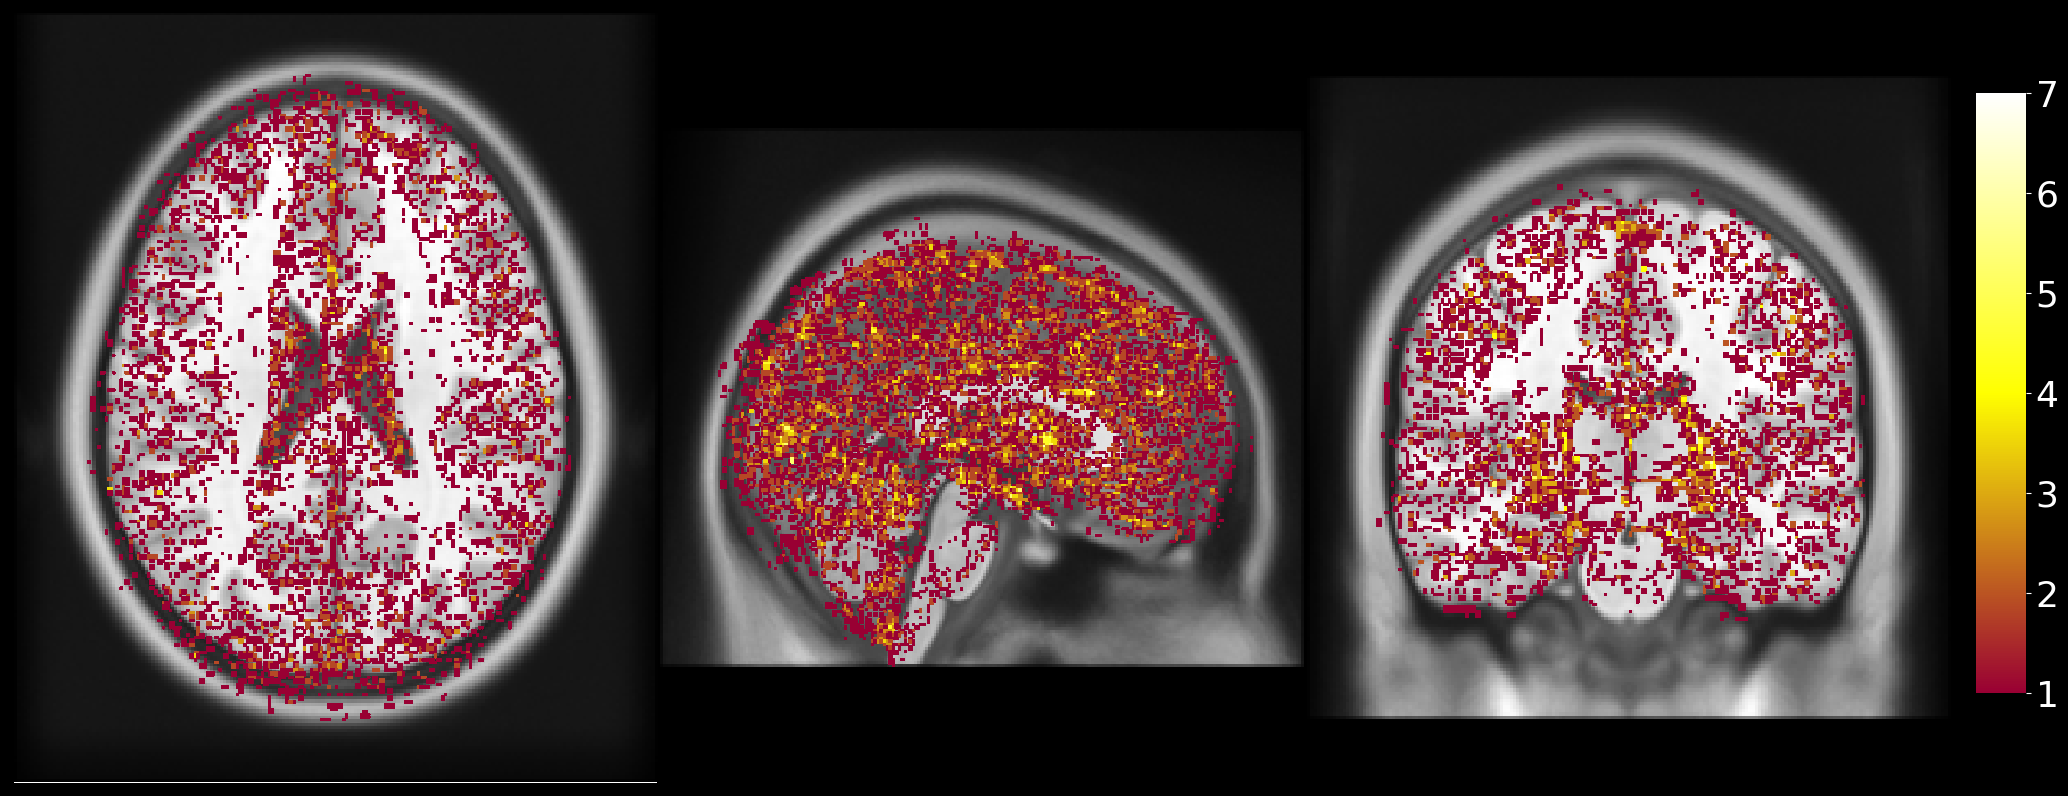
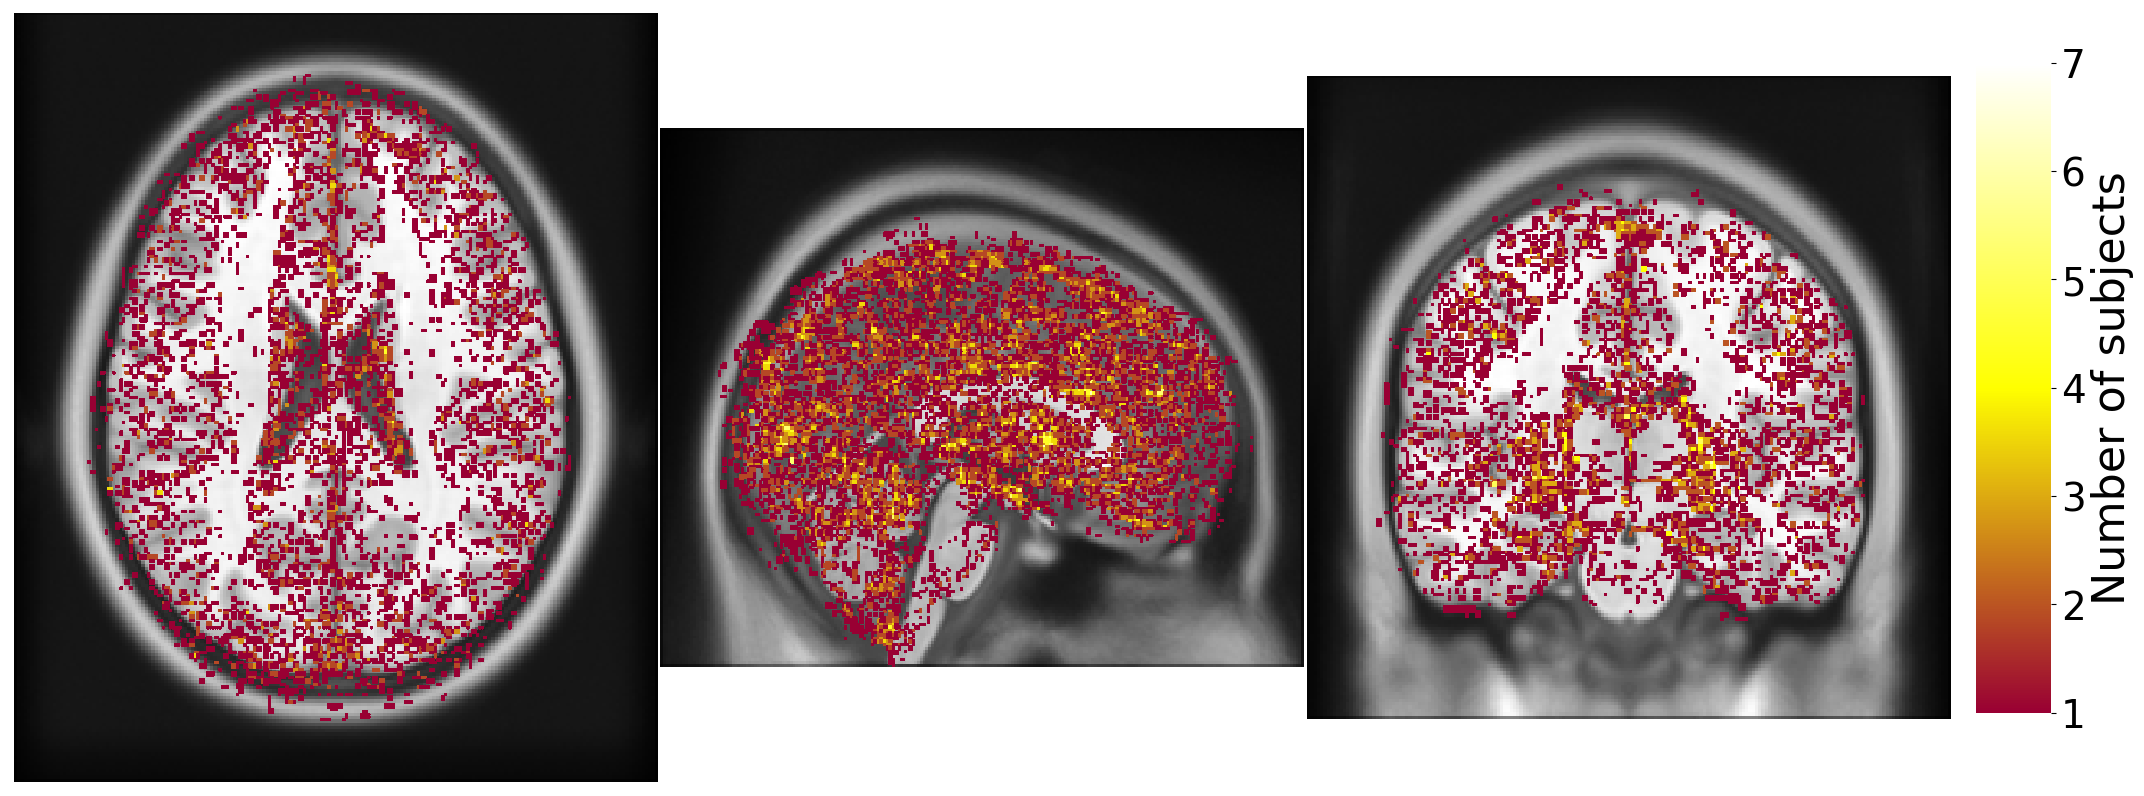
Revised the comments of reviewers

diff --git a/paper.tex b/paper.tex
@@ -50,12 +50,14 @@ linkbordercolor=blue,% hyperlink border will be blue
 %%%% Commands %%%%
 % \newcommand{\todo}[1]{\color{red}\textbf{TODO:}#1\color{black}}
 % \newcommand{\note}[2]{\color{blue}Note from \textsc{#1}: #2\color{black}}
+\newcommand{\revision}[1]{\color{purple}\textbf{REVISION:}#1\color{black}}
+\newcommand{\revised}[1]{\color{blue}\textbf{REVISED:}#1\color{black}}
 \newcommand{\reprozip}[0]{ReproZip\xspace}
 \newcommand{\tristan}[1]{\color{orange}\textbf{From Tristan:}#1\color{black}}
 \newcommand{\toolname}[0]{Spot\xspace}
 \newcommand{\flirt}[0]{\texttt{flirt}\xspace}
 \newcommand{\fnirt}[0]{\texttt{fnirt}\xspace}
- 
+
 \title{File-based localization of numerical perturbations in data analysis pipelines}
 \begin{document}
 
@@ -72,8 +74,8 @@ linkbordercolor=blue,% hyperlink border will be blue
 \maketitle
 
 \begin{abstract} 
-Data analysis pipelines are known to be impacted by computational conditions, presumably due to the creation,
-propagation, and amplification of numerical errors. While this process could
+Data analysis pipelines are known to be impacted by computational conditions, presumably due to the creation 
+and propagation of numerical errors. While this process could
 play a major role in the current reproducibility crisis, the precise
 causes of such instabilities and the path along which they propagate in
 pipelines are unclear. We present \toolname, a tool to identify which
@@ -226,6 +228,19 @@ a step-by-step execution that prevents the propagation of differences in the pip
  The resulting labeled graph identifies the
 non-reproducible processes in the pipeline. 
 
+\revised{
+The labeled graph can be different depending on the condition that we obtained \reprozip trace as it can produce 
+different DAGs. Even using the same DAGs, it depends on the order of executions in which condition 
+we execute pipeline to pinpoint the propagation of differences. 
+Therefore, any permutation of these two factors can produce different results.
+% Pinpointing differences in one condition can be different than other condition.
+
+% add a paragraph to the methods, to explain that the order matters, due to:
+% 1. possible differences in the reprozip trace
+% 2. the way the comparison is done
+}
+
+
 \begin{figure*}
   \begin{subfigure}[t]{0.3\linewidth}
     \centering
@@ -255,7 +270,7 @@ non-reproducible processes in the pipeline.
     \texttt{bet} were captured by \reprozip while they did not appear in
     Listing~\ref{listing:sample-script}. Processed associated with
     executables located in \texttt{/usr/bin/} or \texttt{/bin/} are not shown.
-  }
+    \revised{Node labels are enlarged.}}
     \label{fig:spot-example}
   \end{figure*}
 
@@ -277,7 +292,8 @@ process instrumentation.
 
 \begin{listing}
   \inputminted{bash}{"data/example/example.sh"}
-  \caption{Example pipeline}
+  \caption{\revised{Example pipeline: computes the volume and number 
+  of voxels of the brain from a T1 image.}}
   \label{listing:sample-script}
 \end{listing}
 
@@ -353,6 +369,24 @@ files produced by \texttt{bet2} in Condition 2 are replaced with the
 files produced by \texttt{bet2} in Condition 1. Processes
 \texttt{fslmaths} and \texttt{fslstats} are then executed and
 labeled as reproducible (green) as they produce files without differences.
+
+\subsection{Implementation}
+\revised{ 
+The tool is implemented in Python programming language and supports the Python version 3.5 and higher.
+It utilizes the Python modules including NumPy~\cite{oliphant2006guide} and Pandas~\cite{mckinney2011pandas}, 
+which allow data processing, 
+SciPy~\cite{2020SciPy-NMeth} and Scikit-learn~\cite{pedregosa2011scikit} packages 
+for clustering the subjects, and Zss~\cite{zhang1989simple} package to calculate the tree distances.
+Also, the Python APIs of Docker and Boutiques~\cite{glatard2018boutiques} tools were used to create the container 
+images and simplify the pipeline executions.
+
+We used the latest version of Boutiques tool v0.5.25 for creating descriptors 
+to execute pipelines across the operating systems automatically.
+In a JSON schema, the descriptors define inputs, outputs, error codes, containers, and the command line for running pipelines.
+
+Besides, we used \reprozip tool version 1.0.16 to collect the pipeline system call processes and 
+files in an SQLite file format.
+}
 
 \section{Experiments}
 
@@ -440,18 +474,34 @@ Container images contain the HCP software dependencies, including FSL
 Connectome Workbench (version 1.0).
 
 We processed the 20 subjects with PreFreeSurfer and FreeSurfer, using the 2
-CentOS versions. Each subject was processed twice on the same operating
+CentOS versions. 
+\revised{Using the \reprozip trace obtained from CentOS7, 
+we captured transient files in CentOS6 and labeled pipeline processes in CentOS7.}
+Each subject was processed twice on the same operating
 system to detect within-OS variability coming from pseudo-random
 operations. We compared pipeline results using  FreeSurfer tools \texttt{mri\_diff},
 \texttt{mris\_diff}, and \texttt{lta\_diff}, to ignore execution-specific information such as file path or
 timestamps. To compare segmentations $X$ and $Y$, we used the Dice coefficient defined as follows:
 \[DICE=\frac{2|X \cap Y|}{|X| + |Y|}\]
 
+\revised{
+The Dice coefficient~\cite{dice1945measures} is a commonly used metric in validating medical image segmentation.
+The Dice value ranges from 0 to 1, with 1 indicating a complete overlap between two segmentation results.
+Besides, the Jaccard coefficient~\cite{jaccard1912distribution} can be considered an equivalent metric 
+to measure the overlap between images.
+
+% Also, we used the Pearson correlation coefficient to establish the relationship between Dice value and segmented region size.
+% Like other correlation coefficients, this one varies between -1 and +1 with 0 implying no correlation. 
+% Correlations of -1 or +1 imply an exact linear relationship. 
+}
+
 % Finally, to cluster the subjects, the threshold value is set to zero in the clustering method. 
 % Also, we used the nearest neighbor algorithm to calculate the distance between clusters.
 
 \section{Results}
-
+\revised{
+All experiments were run on the machine with a 3.4GHz Intel Core i7 processor 
+and 32GB memory under the CentOS7 operating system.
 The average processing time per subject was approximately 2~hours for
 PreFreeSurfer and 8~hours for FreeSurfer. The average output file size was
 2.7~GB for PreFreeSurfer and 4.1~GB for FreeSurfer.
@@ -459,7 +509,9 @@ PreFreeSurfer and 8~hours for FreeSurfer. The average output file size was
 For each subject, PreFreeSurfer accessed
 83K files and created 7.7K processes, and FreeSurfer accessed 62K files and 
 created 4K processes.
-
+The scripts and analyses used to create the figures in this section are available at 
+\url{https://github.com/big-data-lab-team/HCP-reproducibility-paper}.
+}
 % \subsection{Subject clustering}
 
 % To reduce the number of provenance graphs to be examined, we cluster
@@ -552,28 +604,40 @@ the observed differences in the entire pipeline, for a given subject.
   the \flirt tool was invoked 6 times in step DC for each of the 20
   subjects: 2 instances weren't reproducible in 19 subjects, 3
   instances were always reproducible, and 1 instance wasn't reproducible in
-  17 subjects. }
+  17 subjects. 
+  \revised{Grey cells show that any command line of the process did not occur in the pipeline step.}}
   \label{fig:pfs_heatmap}
 \end{figure*}
 
 \begin{figure*} 
    \centering
     \includegraphics[width=\linewidth]{figures/pfs-labeled.pdf} 
-    \caption{A complete provenance graph from the PreFreesurfer pipeline. For better visualization, processes associated with commands 
-    in \texttt{/bin} or \texttt{/usr/bin} were ommitted, as well as 
+    \caption{A complete provenance graph from the PreFreesurfer pipeline. 
+    \revised{Node labels show the same abbreviations as in Figure~\ref{fig:pfs_heatmap}.}
+    For better visualization, processes associated with commands 
+    in \texttt{/bin} or \texttt{/usr/bin} were omitted, as well as 
   \texttt{imtest}, \texttt{imcp}, \texttt{remove\_ext}, \texttt{fslval}, \texttt{avscale}, and \texttt{fslhd}.}
     \label{fig:complete_pfs}
 \end{figure*}
 
-To illustrate the magnitude of the differences,
+\revised{
 Figure~\ref{fig:fnirt_result} compares \fnirt results in Brain Extraction
-for a particular subject. Differences appear to be important, in
-particular in the areas framed in red.
+for a particular subject using the checkerboard pattern.
+Differences appear to be visually important, in particular in the areas framed in red.
+The checkerboard representation is a common method to illustrate the magnitude of the differences in registration results.
+Although differences are more clearly represented in the animations linked in this figure.}
+
 \begin{figure}
   \centering
     \includegraphics[width=\columnwidth]{figures/t2w_alignment.png} 
     \caption{Differences between T2 \fnirt results in PreFreeSurfer's Brain Extraction (CentOS6 vs 
-    CentOS7). An animated version of the comparison is available \href{https://github.com/big-data-lab-team/HCP-reproducibility-paper/blob/master/figures/pfs_t2w_alignment.gif}{here}.}
+    CentOS7). 
+    \revised{
+    The colored squares indicate result images obtained from CentOS6 (in purple) and CentOS7 (in green), 
+    and the red boxes highlight regions with significant differences.}
+    % Result images obtained from CentOS6 and CentOS7 are colored in purple and green squares.
+    % The red boxes highlight regions with significant differences.}
+    An animated version of the comparison is available \href{https://github.com/big-data-lab-team/HCP-reproducibility-paper/blob/master/figures/pfs_t2w_alignment.gif}{here}.}
     \label{fig:fnirt_result}
 \end{figure}
 
@@ -586,12 +650,19 @@ that produced different results for
 10 out of 20 subjects. 
 
 However, FreeSurfer results still differ between conditions, due to the
-propagation and amplification of differences created in PreFreeSurfer. We
+propagation of differences created in PreFreeSurfer. We
 observed the effect of this propagation in FreeSurfer results, as shown in
 Figure~\ref{fig:tissue_class} for whole-brain segmentations. The
 Dice coefficients associated with the 44 regions segmented by
 FreeSurfer are shown in Figure~\ref{fig:scatter_plot}, showing that Dice coefficents below 0.9 are 
 observed in most regions, and particularly in the smallest ones.
+\revised{
+The correlation between the Dice values and region sizes computed as the Pearson's correlation coefficient 
+was 0.12 (\emph{P}=.43). 
+The positive correlation implies that as region size increases, Dice value increases. 
+% This is an average Dice values over 20 subjects for each 44 regions.
+}
+
 \begin{figure}
 %  \includegraphics{brain\_classification}
 \centering
@@ -599,10 +670,13 @@ observed in most regions, and particularly in the smallest ones.
   \caption{Sum of binarized differences between whole-brain FreeSurfer
   segmentations obtained from PreFreeSurfer processings in CentOS6 vs CentOS7
    (N=20). Segmentations were resampled and overlaid to the MNI152 volume
-  template. An animated comparison of segmentations obtained for a particular subject is available
+  template. 
+  \revised{Each voxel shows the number of subjects that created different results. 
+  The color bar ranges from 1 to 7 as the minimum and the maximum number of subjects in each voxel.
+  Voxels are not colored if the identical results were produced in all 20 subjects.}
+  An animated comparison of segmentations obtained for a particular subject is available
 \href{https://github.com/big-data-lab-team/HCP-reproducibility-paper/blob/master/figures/fs_brain_segmentation.gif}
-{here}.
-} 
+{here}.} 
   \label{fig:tissue_class}
 \end{figure}
 
@@ -610,7 +684,9 @@ observed in most regions, and particularly in the smallest ones.
   \hspace*{-1cm}
   \includegraphics[width=1.1\linewidth]{figures/dice_regions.pdf}
     \caption{Dice coefficients between regions segmented by FreeSurfer in CentOS6 vs CentOS7 (N=20), ordered by increasing 
-    median values. Boxes brightness is proportional to the logarithm of the corresponding brain region size.}
+    median values. 
+    \revised{Each point indicates the Dice value in a particular region for a single subject.}
+    Boxes brightness is proportional to the logarithm of the corresponding brain region size.}
     \label{fig:scatter_plot}
   \end{figure*}
 
@@ -623,6 +699,12 @@ observed in most regions, and particularly in the smallest ones.
   
 
 \section{Discussion}
+
+\revision{
+Discuss irreproducibility in 2 parts:
+1. code coverage 
+2. statistics, see eq 1 in https://ieeexplore.ieee.org/abstract/document/7152570
+}
 
 Our results provide insights on the reproducibility of
 neuroimaging pipelines, and on the relevance of the approach implemented

diff --git a/bin/code/provenance_graph.py b/bin/code/provenance_graph.py
@@ -52,9 +52,9 @@ def get_opened_files_list(openfile_cursor, pid):
 
 def add_edge(graph_, from_, to_, mode):
     if mode == 'file':
-        graph_.attr('edge', style='solid',color='black', penwidth='1')
+        graph_.attr('edge', style='solid',color='black', penwidth='3')
     elif mode == 'ptree':
-        graph_.attr('edge', style='dashed', color='grey', penwidth='1')
+        graph_.attr('edge', style='dashed', color='grey', penwidth='3')
     graph_.edge(str(from_), str(to_))
     return graph_
 
@@ -62,29 +62,32 @@ def add_edge(graph_, from_, to_, mode):
 def add_node(graph_, id, name, mode, color):
     # with graph_.subgraph(name='cluster_{}'.format(cluster)) as ngraph_:
     if mode == 'process':
+        if name == 'remove_ext':
+                name = 'remove\next'
         if color == 'red':
             if name == 'fslmaths':
                 name = 'fsl\nmaths'
             if name == 'new_invwarp':
                 name = 'new\ninvwarp'
-            graph_.node(str(id), name.upper(), width='1.5', fontsize='16',fontname="Helvetica bold",
+            graph_.node(str(id), name.upper(), width='2.3', fontsize='26',fontname="Helvetica bold",
                         fontcolor='black', shape='circle',
-                        style='filled', fillcolor='#EDB9B8', penwidth='1')
+                        style='filled', fillcolor='#EDB9B8', penwidth='.5')
         elif color == 'green':
-            graph_.node(str(id), name, width='1.5', penwidth='1', fontsize='16', shape='circle',
+            graph_.node(str(id), name.upper(), width='2.3', penwidth='.5', fontsize='26', shape='circle',
                         style='filled', fillcolor='#7FCDB1', fontname="Helvetica bold")
         elif color == 'subgreen':
-            graph_.node(str(id), name, width='1.5', fontsize='16',fontname="Helvetica bold",
+            graph_.node(str(id), name.upper(), width='2.3', fontsize='26',fontname="Helvetica bold",
                         shape='circle', style='filled', fillcolor='#7FCDB1')
         elif color == 'white':
-            graph_.node(str(id), name, width='1.5', shape='circle', style='filled', fontsize='16',
+            graph_.node(str(id), name.upper(), width='2.3', shape='circle', style='filled', fontsize='26',
                         fontname="Helvetica bold", fillcolor='white')
     elif mode == 'file':
         if name != '':
             graph_.node(str(id), name, shape='box', style='filled', fillcolor=color, penwidth='1',
-                        fontsize='16', fontname="Helvetica bold")
+                        fontsize='26', fontname="Helvetica bold")
         else:
-            graph_.node(str(id), name, shape='box', style='filled', fillcolor=color, penwidth='1')
+            graph_.node(str(id), name, shape='box', style='filled', fillcolor=color, penwidth='1',
+                        fontsize='26')
     # graph_.node(str(id), name) 
     return graph_
 

diff --git a/bin/code/binarized_heatmap_img.py b/bin/code/binarized_heatmap_img.py
@@ -43,7 +43,7 @@ def main():
 
     # Check that both images have the same dimensions
     # shape1 = im1.header.get_data_shape()
-    # shape2 = im_ref.header.get_data_shape() 
+    # shape2 = im_ref.header.get_data_shape()
     hor_view = img_sum[129,:,:]
     hor_view_ref = im_data_ref[98,:,:]
     ver_view = img_sum[:,155,:]
@@ -57,17 +57,19 @@ def main():
     endcolor = '#FFFFFF'
     own_cmap1 = mpl.colors.LinearSegmentedColormap.from_list(
                     'own2', [startcolor, midcolor, endcolor])
-    fig = plt.figure(figsize=(25,10), facecolor='black')
+    fig = plt.figure(figsize=(25,10), facecolor='white')
     ax1 = fig.add_subplot(131)
     ax2 = fig.add_subplot(132)
     ax3 = fig.add_subplot(133)
     plt.subplots_adjust(hspace=0.05, wspace=0.005)
-    cbar_ax = fig.add_axes([.91, .2, .02, .6])
-    cbar_ax.tick_params(labelsize=26, color='white', labelcolor='white')
+    cbar_ax = fig.add_axes([.91, .18, .03, .65])
+    cbar_ax.tick_params(labelsize=28, color='black', labelcolor='black')
+    cbar_ax.yaxis.label.set_size(32)
+    cbar_ax.yaxis.label.set_color('black')
 
     own_cmap1.set_under("0.5", alpha=0)
-    hmax= sns.heatmap(np.rot90(ver_view), cbar_ax=cbar_ax, cmap=own_cmap1, xticklabels='', 
-                      yticklabels='', ax=ax3, vmin=1, vmax=7)
+    hmax= sns.heatmap(np.rot90(ver_view), cbar_ax=cbar_ax, cmap=own_cmap1, xticklabels='',
+                      yticklabels='', cbar_kws={'label': 'Number of subjects'}, ax=ax3, vmin=1, vmax=7)
     hmax.imshow(np.rot90(ver_view_ref), cmap='gray', aspect='equal', extent=hmax.get_xlim() + hmax.get_ylim())
 
     hmax2 = sns.heatmap(np.rot90(hor_view), cmap=own_cmap1, xticklabels='', yticklabels='', cbar=False, ax=ax2, vmin=1, vmax=8)
@@ -77,7 +79,7 @@ def main():
     hmax3.imshow(np.rot90(axi_view_ref), cmap='gray', aspect='equal', extent=hmax3.get_xlim() + hmax3.get_ylim())
     plt.rcParams['axes.facecolor'] = 'black'
     plt.savefig(args.output_image_file, facecolor=fig.get_facecolor(), bbox_inches='tight')
-    #plt.show()
+    # plt.show()
 
 if __name__ == '__main__':
     main()

diff --git a/bin/code/regions.py b/bin/code/regions.py
@@ -34,6 +34,15 @@ sorted_regions = sorted(regions, key=lambda x: median(dices[x]))
 data = [ dices[region] for region in sorted_regions ]
 mean_sizes = [ [ mean(sizes[region]) for x in sizes[region]] for region in sorted_regions ]
 
+# Print Pearson's correlation
+from scipy import stats
+x = []
+y = []
+for r in regions:
+    x.append(mean(dices[r]))
+    y.append(mean(sizes[r]))
+print(stats.pearsonr(y, x))
+
 from math import log
 bplot = plt.boxplot(data, showfliers=False, patch_artist=True,
             labels = range(len(sorted_regions)))
